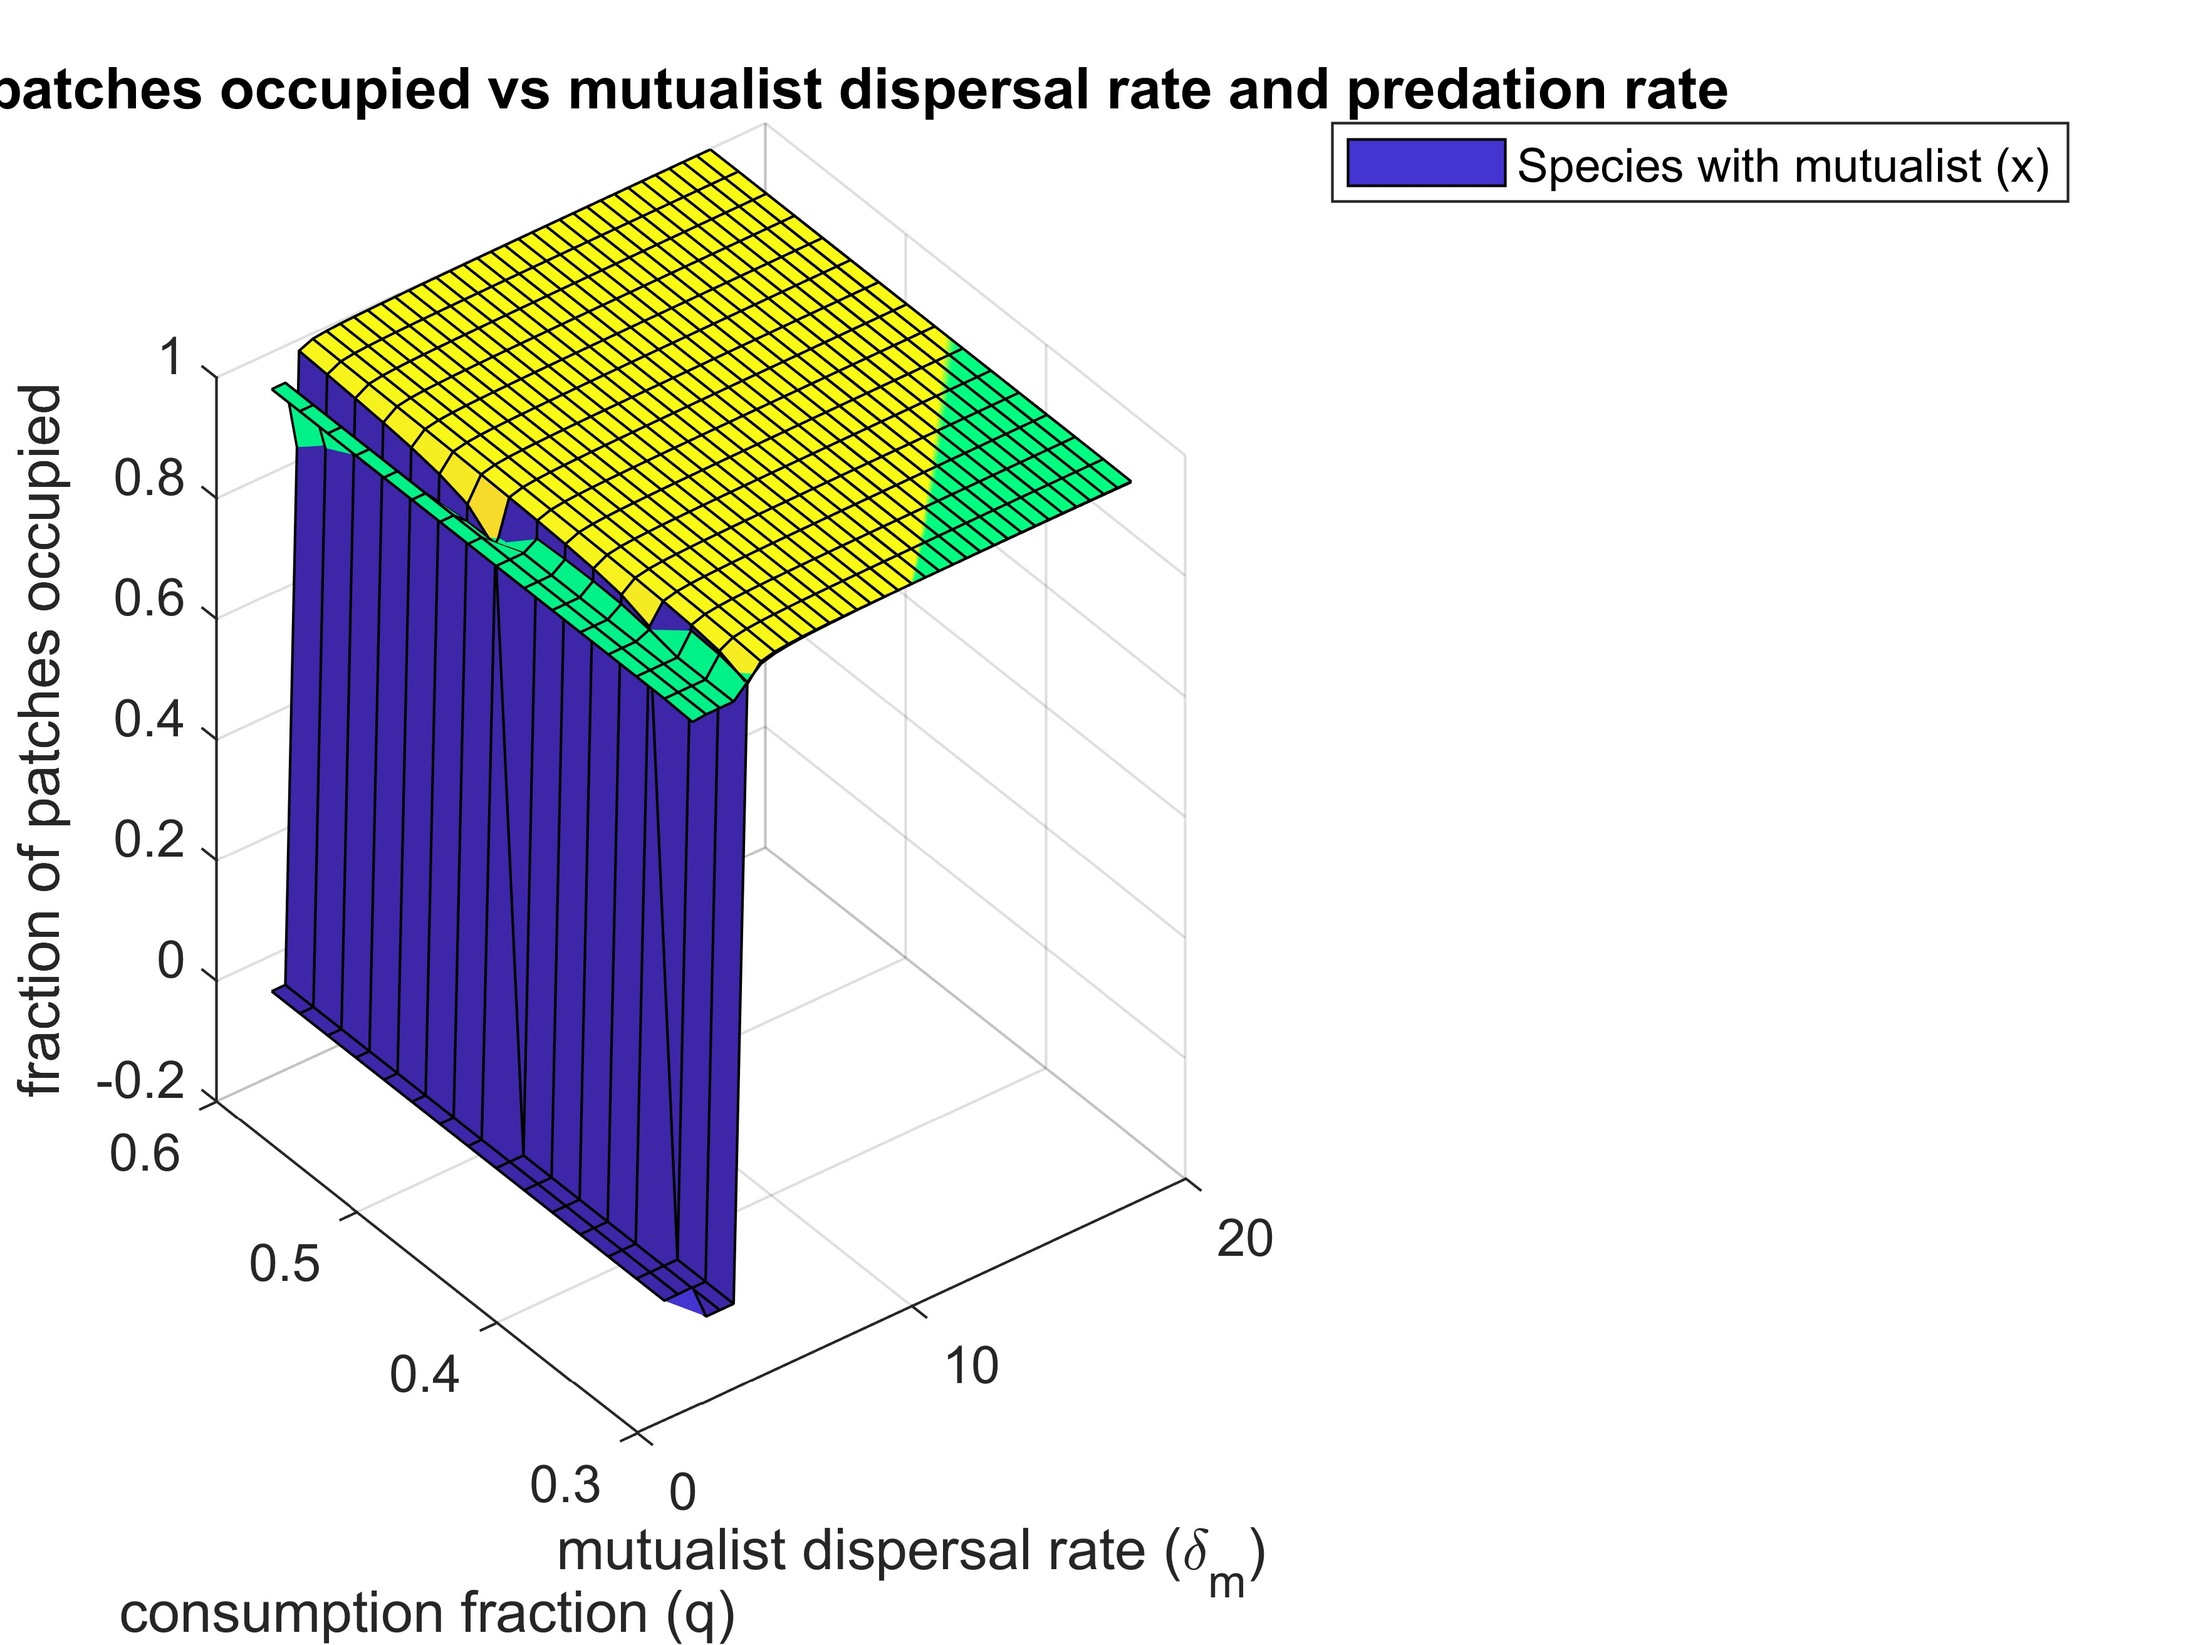
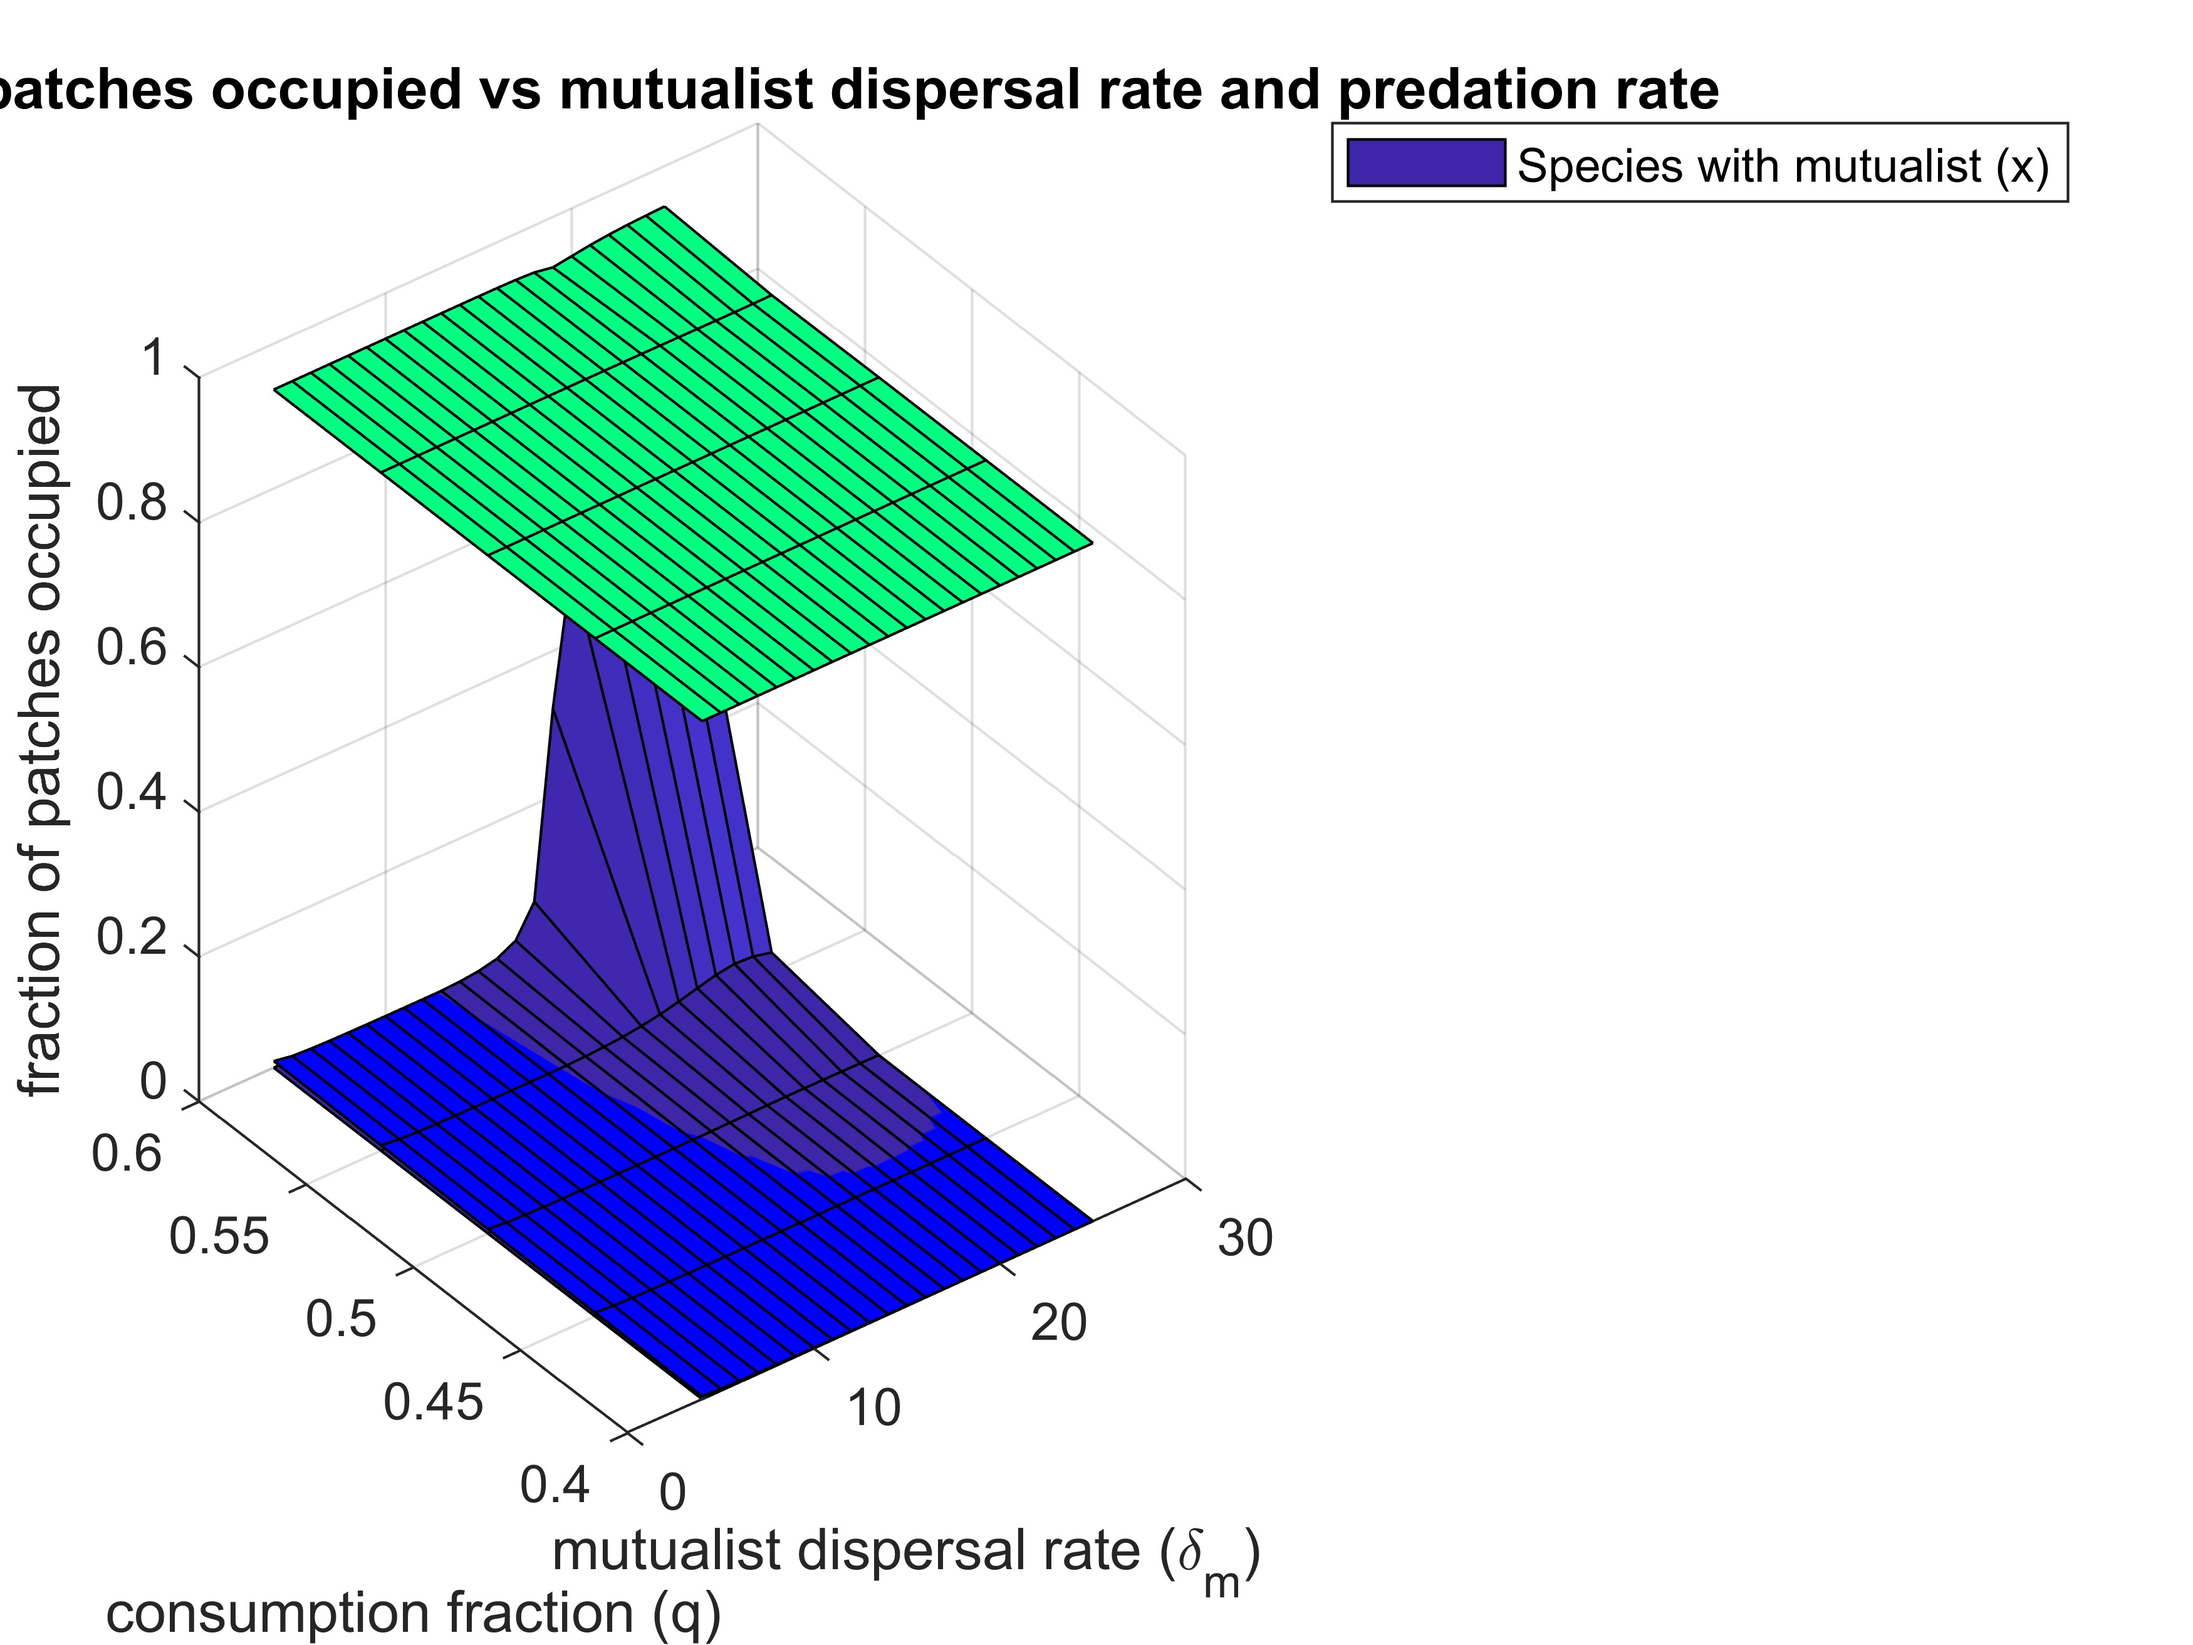
correction of huge blunders
- removed the 'f' and '1-f' terms from the colonisation equations. Not necessary terms and completely inverts the expected results especially for the generalist frugivore
- updating the single del_m code to be in-line with the vectorized version of the generalist and specialist code.
-need to rewrite code s.t. c_xm,c_ym,c_yxm, and c_xym are all not just directly proportional to local densities

diff --git a/vectorized_disp_mutualism_metacommunity_allcombos_generalist.m b/vectorized_disp_mutualism_metacommunity_allcombos_generalist.m
@@ -9,26 +9,27 @@ alpha_xy = 0.73; alpha_yx = 0.60; %really only affects y's local density and dis
 K_x = 200; K_y = 200; %no point touching this
 
 del_x = 0.01; del_y = 0.05;
+
 %q = 0.45;
-d_m = 1; a = 0.8;%reducing 'a' reduces dispersal rates where px > py
-del_m = 2:0.5:18; %I'm only not starting from zero because the computational costs are absurd
+d_m = 1; a = 1.0;%reducing 'a' reduces dispersal rates where px > py
+del_m = 4:1:25; %I'm only not starting from zero because the computational costs are absurd
 %a = 0.51:0.01:0.81;%0.7-1.1 seems to work for this fig.
-q = 0.6:0.02:0.80;
+q = 0.4:0.05:0.6;
 [Del,Q] = meshgrid(del_m,q);
 
 Del_col = Del(:); Q_col = Q(:); 
 
 num_combinations = numel(Q_col); 
 
-k_eff = 1.0; %efficiency of dispersing seeds to habitable patches
+k_eff = 1; %efficiency of dispersing seeds to habitable patches
 
-z_x = 0.7; z_y = 0.7; z_m = 0.4; %scaling factors for patch extinction rates. changing z_m relative to z_x and z_m does not change qual. change results
+z_x = 0.7; z_y = 0.7; z_m = 0.5; %scaling factors for patch extinction rates. changing z_m relative to z_x and z_m does not change qual. change results
 
-e_xmin = 0.05;e_ymin = 0.05; e_mmin = 0.3; e_mxmin = e_xmin; 
+e_xmin = 0.05;e_ymin = 0.05; e_mmin = 0.03; e_mxmin = e_xmin; 
 
-tspan = [0,5000];
+tspan = [0,1000];
 
-k_x = 0.08; k_y = 0.08; k_m = 0.04; %
+k_x = 0.08; k_y = 0.08; k_m = 0.02; %
 
 x_init = 0.1; y_init = 0.1; m_init = 0.1;
 
@@ -37,7 +38,7 @@ spp_init_no_y = [x_init; 0; m_init];
 spp_init_no_x = [0; y_init; m_init];
 spp_init = [x_init; y_init; m_init];
 
-f = 0.47; % f is the fraction of diet consumed by frugivore that consists of 'x'. (1-f) is fraction that is 'y'
+f = 1; % f is the fraction of diet consumed by frugivore that consists of 'x'. (1-f) is fraction that is 'y'
 %variable collectors across parameter sweeps
 
 % occupancy_del_m = zeros(size(del_m,1),3);
@@ -125,8 +126,8 @@ c_ym = ((k_y.*del_y)+k_m*k_eff.*Del_col'.*local_dens_no_x_3d(3,:)).*local_dens_n
 c_my = k_m.*Del_col'.*local_dens_no_x_3d(3,:);
 
 %all species present
-c_xym = (k_x.*del_x+k_m.*k_eff.*f.*Del_col'.*local_dens_3d(3,:)).*local_dens_3d(1,:); 
-c_yxm = (k_y.*del_y+k_m.*k_eff.*(1-f).*Del_col'.*local_dens_3d(3,:)).*local_dens_3d(2,:);
+c_xym = (k_x.*del_x+k_m.*k_eff.*Del_col'.*local_dens_3d(3,:)).*local_dens_3d(1,:); 
+c_yxm = (k_y.*del_y+k_m.*k_eff.*Del_col'.*local_dens_3d(3,:)).*local_dens_3d(2,:);
 c_mxy = k_m.*Del_col'.*local_dens_3d(3,:);%all species present
 
 
@@ -137,9 +138,12 @@ IC_betweenpatch = repelem(frac_occup_init,num_combinations);
 IC_betweenpatch = reshape(IC_betweenpatch,[],num_combinations);
 options2 = odeset('NonNegative',[1,2,3]);
 if any(e_mxy == inf) || any(e_mx ==inf) || any(e_my == inf)
-    IC_betweenpatch(3,find(e_mx == inf)) = 0;
-    IC_betweenpatch(3,find(e_my == inf)) = 0;
-    IC_betweenpatch(3,find(e_mxy == inf)) = 0;
+    c_mx(find((e_mx == inf))) = 0; e_mx(find((e_mx == inf))) = 0; 
+    c_my(find((e_my == inf))) = 0; e_my(find((e_my == inf))) = 0; 
+    c_mxy(find((e_mxy == inf))) = 0; e_mxy(find((e_mxy == inf))) = 0; 
+    % IC_betweenpatch(3,find(e_mx == inf)) = 0;
+    % IC_betweenpatch(3,find(e_my == inf)) = 0;
+    % IC_betweenpatch(3,find(e_mxy == inf)) = 0;
 end
 [t_syst, frac_occup] = ode45(@(t,y)vectorized_BetweenPatchDynamics_allcombos(t,y, c_x0, c_xm, c_xym, c_xy, c_y0, c_ym, c_yxm, c_yx, c_mx, c_mxy, c_my, e_x0, e_xy, e_xm, e_xym, e_y0, e_yx, e_ym, e_yxm, ...
     e_mx, e_mxy, e_my, num_combinations), tspan_meta, IC_betweenpatch(:), options2);
@@ -168,6 +172,7 @@ surf(Del, Q, reshape(frac_occup_3d(1,:),numel(q),numel(del_m)))
 colormap parula; freezeColors;
 hold on
 surf(Del, Q, reshape(frac_occup_3d(2,:),numel(q),numel(del_m)))
+surf(Del, Q, reshape(frac_occup_3d(3,:),numel(q),numel(del_m)))
 colormap winter; freezeColors;
 %surf(Del, Q,occupancy_del_m(:,:,1))
 xlabel('mutualist dispersal rate (\delta_m)')

diff --git a/BetweenPatchDynamics_allcombos.m b/BetweenPatchDynamics_allcombos.m
@@ -1,13 +1,23 @@
-function dydt = BetweenPatchDynamics_allcombos(t,y, c_x0, c_xm, c_xym, c_xy, c_y0, c_ym, c_yxm, c_yx, c_mx, c_mxy, e_x0, e_xy, e_xm, e_xym, e_y0, e_yx, e_ym, e_yxm, ...
-    e_mx, e_mxy)
+function dydt = BetweenPatchDynamics_allcombos(t,y, c_x0, c_xm, c_xym, c_xy, c_y0, c_ym, c_yxm, c_yx, c_mx, c_mxy, c_my, e_x0, e_xy, e_xm, e_xym, e_y0, e_yx, e_ym, e_yxm, ...
+    e_mx, e_mxy, e_my)
 % y(1) = occupied patch fraction by species x
 % y(2) = occupied patch fraction by species y
 % y(3) = occupied patch fraction by species m
 dydt = zeros(3,1);
-% dydt(1) = (c_x0*y(1)+lambda*y(3)).*(1-y(1))-e_x*y(1)-mu*y(3);%removing the c_m component
-% dydt(2) = c_y*y(2).*(1-y(2))-e_y.*y(2);
-% dydt(3) = c_m*y(3).*(y(1)-y(3))-e_m*y(3);%-(e_x+mu)*y(3);
 
-dydt(1) = y(1)*((c_x0*(1-y(1))-e_x0)*(1-(y(3)+y(2))+y(2)*y(3)) + (c_xm*(1-y(1))-e_xm)*(y(1)*y(3)*(1-y(2))) + (c_xy*(1-y(1))-e_xy)*(y(1)*y(2)*(1-y(3))) + (c_xym*(1-y(1))-e_xym)*(y(1)*y(2)*y(3)));%removing the c_m component
-dydt(2) = y(2)*((c_y0*(1-y(2))-e_y0)*(1-(y(3)+y(1))+y(1)*y(3)) + (c_ym*(1-y(2))-e_ym)*(y(2)*y(3)*(1-y(1))) + (c_yx*(1-y(2))-e_yx)*(y(2)*y(1)*(1-y(3))) + (c_yxm*(1-y(2))-e_yxm)*(y(2)*y(1)*y(3)));
-dydt(3) = y(3)*((1-y(2))*(c_mx*(y(1)-y(3))-e_mx)+y(2)*(c_mxy*(y(1)-y(3))-e_mxy));%-(e_x+mu)*y(3);
+dydt(1) = y(1)*((c_x0*(1-y(1))-e_x0)*(1-(y(3)+y(2))+y(2)*y(3)) + (c_xm*(1-y(1))-e_xm)*y(3)*(1-y(2)) + (c_xy*(1-y(1))-e_xy)*y(2)*(1-y(3)) + (c_xym*(1-y(1))-e_xym)*y(2)*y(3));%removing the c_m component
+dydt(2) = y(2)*((c_y0*(1-y(2))-e_y0)*(1-(y(3)+y(1))+y(1)*y(3)) + (c_ym*(1-y(2))-e_ym)*y(3)*(1-y(1)) + (c_yx*(1-y(2))-e_yx)*y(1)*(1-y(3)) + (c_yxm*(1-y(2))-e_yxm)*y(1)*y(3));
+dydt(3) = y(3)*((c_mx*(1-y(3))-e_mx)*(1-y(2))*y(1)+ (c_my*(1-y(3))-e_my)*(1-y(1))*y(2)+ (c_mxy*(1-y(3))-e_mxy)*y(2)*y(1));%-(e_x+mu)*y(3);
+
+end
+
+% y(1,:) = occupied patch fraction by species x
+% y(2,:) = occupied patch fraction by species y
+% y(3,:) = occupied patch fraction by species m
+% dydt = zeros(3,n);
+% y = reshape(y,[],n);
+% dydt(1,:) = y(1,:).*((c_x0.*(1-y(1,:))-e_x0).*(1-(y(3,:)+y(2,:))+y(2,:).*y(3,:)) + (c_xm.*(1-y(1,:))-e_xm).*y(3,:).*(1-y(2,:))) + (c_xy.*(1-y(1,:))-e_xy).*y(2,:).*(1-y(3,:)) + (c_xym.*(1-y(1,:))-e_xym).*y(2,:).*y(3,:);%removing the c_m component
+% dydt(2,:) = y(2,:).*((c_y0.*(1-y(2,:))-e_y0).*(1-(y(3,:)+y(1,:))+y(1,:).*y(3,:)) + (c_ym.*(1-y(2,:))-e_ym).*(y(3,:).*(1-y(1,:))) + (c_yx.*(1-y(2,:))-e_yx).*(y(1,:).*(1-y(3,:))) + (c_yxm.*(1-y(2,:))-e_yxm).*(y(1,:).*y(3,:)));
+% %dydt(3,:) = y(3,:).*((1-y(2,:)).*(c_mx.*(y(1,:)-y(3,:))-e_mx)+y(2,:).*(c_mxy.*(y(1,:)-y(3,:))-e_mxy));
+% dydt(3,:) = y(3,:).*((c_mx.*(1-y(3,:))-e_mx).*(1-y(2,:)).*y(1,:) + (c_my.*(1-y(3,:))-e_my).*(1-y(1,:)).*y(2,:) + (c_mxy.*(1-y(3,:))-e_mxy).*y(1,:).*y(2,:));
+% dydt = dydt(:);

diff --git a/disp_mutualism_metacommunity_allcombos.m b/disp_mutualism_metacommunity_allcombos.m
@@ -1,4 +1,4 @@
-clear vars
+clear all
 
 %% parameter definition
 r_x = 5; r_y = 5;
@@ -55,7 +55,7 @@ for i = 1:length(del_m)
     e_xy = e_xmin*((K_x/(local_dens_no_m(end,1)))^z_x); e_yx = e_ymin*((K_y/(local_dens_no_m(end,2)))^z_y);
     e_xm = e_xmin*((K_x/(local_dens_no_y(end,1)))^z_x); e_ym = e_ymin;
     e_xym = e_xmin*(K_x/(local_dens(end,1)))^z_x; e_yxm = e_ymin*(K_y/(local_dens(end,2)))^z_y;
-    e_mx = e_mmin*(K_x/(local_dens_no_y(end,3)))^z_m; e_mxy = e_mmin*(K_x/(local_dens(end,3)))^z_m; %assume max population size of mutualist is similar to that of x and y
+    e_mx = e_mmin*(K_x/(local_dens_no_y(end,3)))^z_m; e_my = 0; e_mxy = e_mmin*(K_x/(local_dens(end,3)))^z_m; %assume max population size of mutualist is similar to that of x and y
     
 %     if local_dens(end,3) == 0
 %         e_mx = 0;
@@ -72,9 +72,9 @@ for i = 1:length(del_m)
 
     tspan_meta = [0, 1000];
 
-    c_x0 = (k_x*del_x)*K_x; c_y0 = (k_y*del_y)*K_y; %patches with only one species
+    c_x0 = (k_x*del_x)*K_x*(1-(del_x/r_x)); c_y0 = (k_y*del_y)*K_y*(1-(del_y/r_y)); %patches with only one species
     c_xy = (k_x*del_x)*local_dens_no_m(end,1); c_yx = (k_y*del_y)*local_dens_no_m(end,2); c_mx = k_m*del_m(i)*local_dens_no_y(end,3);%patches with 2 species
-    c_xm = k_x*del_x*local_dens_no_y(end,1); c_ym = (k_y*del_y)*K_y; % patches with one plant-one frugivore
+    c_xm = ((k_x*del_x)+k_m*k_eff.*del_y.*local_dens_no_y(end,3))*local_dens_no_y(end,1); c_ym = c_y0; % patches with one plant-one frugivore
     c_xym =(k_x*del_x+k_m*k_eff*a*(1-q)*del_m(i)*local_dens(end,3))*local_dens(end,1); c_yxm = k_y*del_y*local_dens(end,2); c_mxy = k_m*del_m(i)*local_dens(end,3);%all species present
 
     %lambda = c_mx-c_x;
@@ -84,8 +84,8 @@ for i = 1:length(del_m)
         frac_occup_init(3,1) = 0;
     end
 
-    [t_syst, frac_occup] = ode45(@(t,y)BetweenPatchDynamics_allcombos(t,y, c_x0, c_xm, c_xym, c_xy, c_y0, c_ym, c_yxm, c_yx, c_mx, c_mxy, e_x0, e_xy, e_xm, e_xym, e_y0, e_yx, e_ym, e_yxm, ...
-    e_mx, e_mxy), tspan_meta,frac_occup_init,options2);
+    [t_syst, frac_occup] = ode45(@(t,y)BetweenPatchDynamics_allcombos(t,y, c_x0, c_xm, c_xym, c_xy, c_y0, c_ym, c_yxm, c_yx, c_mx, c_mxy, c_my, e_x0, e_xy, e_xm, e_xym, e_y0, e_yx, e_ym, e_yxm, ...
+    e_mx, e_mxy, e_my), tspan_meta,frac_occup_init,options2);
     %frac_occup(end,1) = 0;
     
     

diff --git a/vectorized_disp_mutualism_metacommunity_allcombos.m b/vectorized_disp_mutualism_metacommunity_allcombos.m
@@ -114,7 +114,7 @@ c_y0 = (k_y.*del_y).*K_y*(1-(del_y/r_y));
 c_xy = (k_x.*del_x).*local_dens_no_m_3d(1,:); c_yx = (k_y.*del_y).*local_dens_no_m_3d(2,:); c_mx = k_m.*Del_col'.*local_dens_no_y_3d(3,:); c_my = 0;%patches with 2 species
 c_xm = ((k_x.*del_x)+k_m*k_eff.*Del_col'.*local_dens_no_y_3d(3,:)).*local_dens_no_y_3d(1,:);%k_x.*del_x.*local_dens_no_y_3d(1,:); 
 c_ym = (k_y.*del_y).*K_y*(1-(del_y/r_y));%(k_y.*del_y).*K_y; % patches with one plant-one frugivore
-c_xym = (k_x.*del_x+k_m.*k_eff.*f.*Del_col'.*local_dens_3d(3,:)).*local_dens_3d(1,:); c_yxm = k_y.*del_y.*local_dens_3d(2,:); c_mxy = k_m.*Del_col'.*local_dens_3d(3,:);%all species present
+c_xym = (k_x.*del_x+k_m.*k_eff.*Del_col'.*local_dens_3d(3,:)).*local_dens_3d(1,:); c_yxm = k_y.*del_y.*local_dens_3d(2,:); c_mxy = k_m.*Del_col'.*local_dens_3d(3,:);%all species present
 
 
 %lambda = c_mx-c_x;
